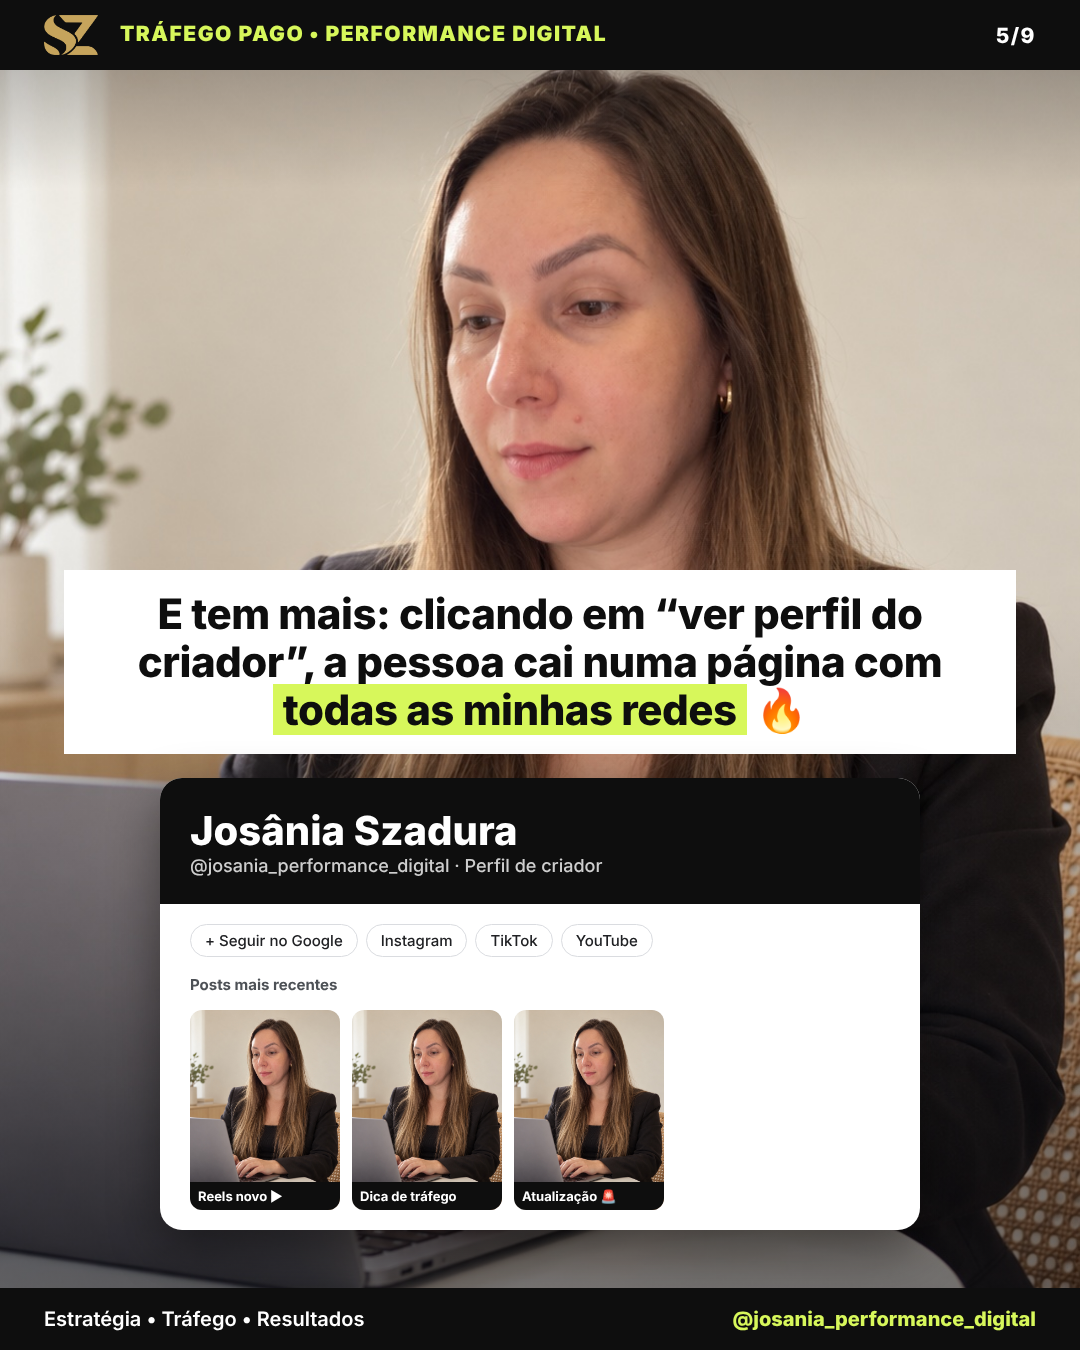
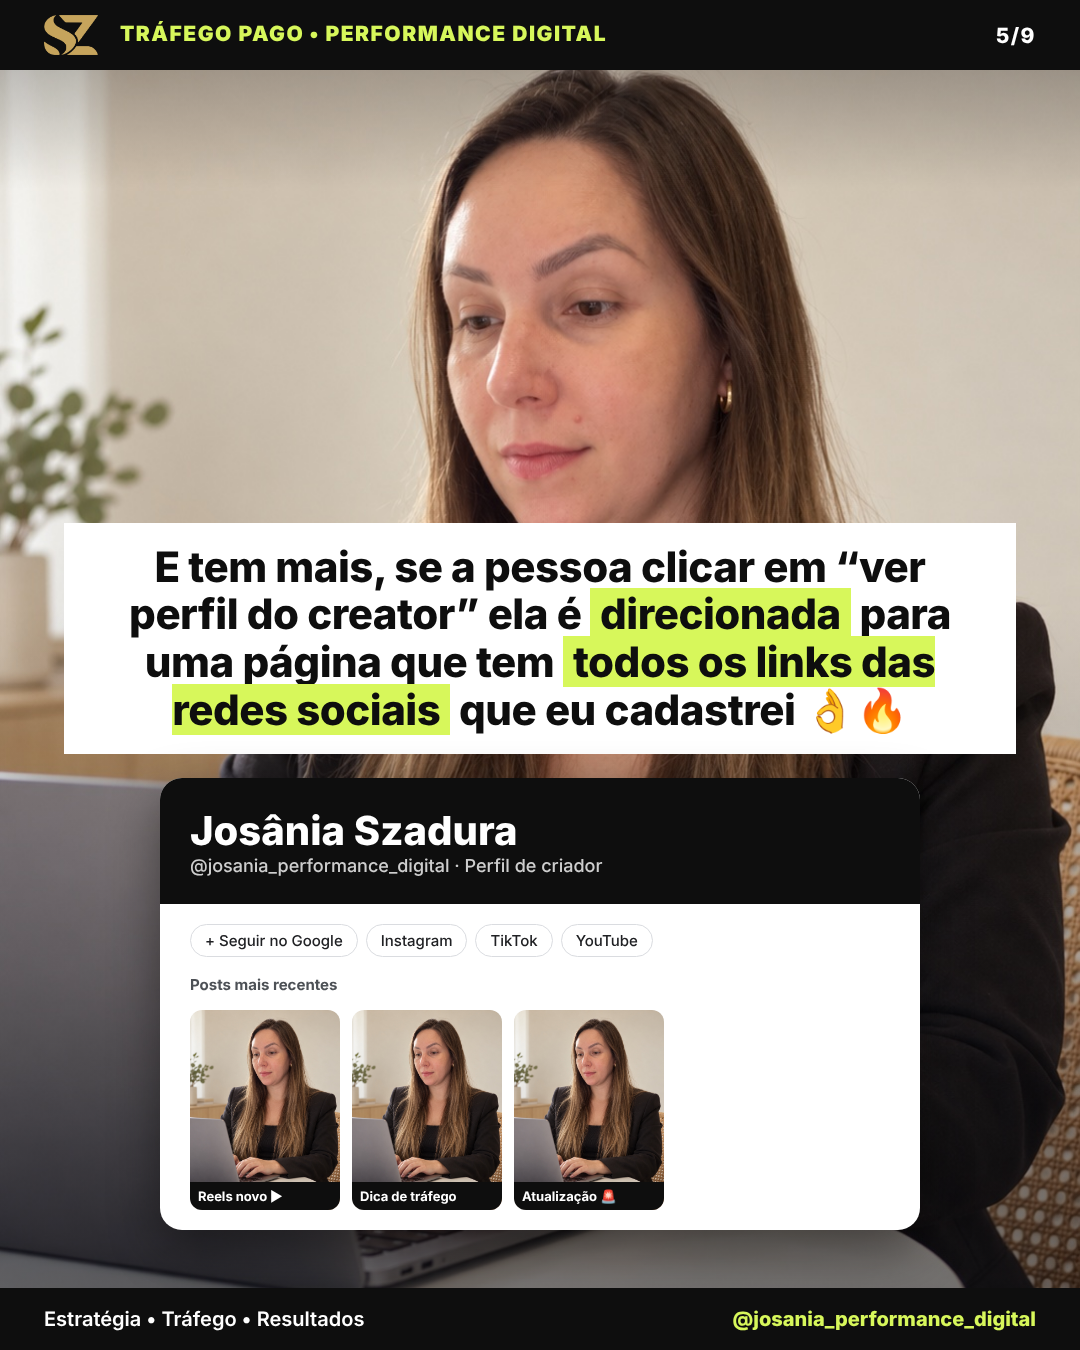
Ajusta os textos do carrossel ao tom do post de referência
Claude-Session: https://claude.ai/code/session_01Cdq3fSAdowyFYcw5UgbxcJ

Changed region(s): [[0.0611, 0.3733, 0.9472, 0.56]]

diff --git a/conteudos/carrossel-perfil-google/gerar.py b/conteudos/carrossel-perfil-google/gerar.py
@@ -111,15 +111,15 @@ def slides(m):
 <div class="desc" style="font-size:19px;margin-top:6px">Uma nova maneira de criadores se destacarem na Pesquisa.</div>
 <div class="src" style="margin-top:10px;font-size:18px">🔗 creators.google</div></div></div>"""
     return [
-        f'<img class="selo canto" src="{m["sz_uri"]}"><div class="box ouro sm">🚨 ALERTA DE ATUALIZAÇÃO</div><div class="box escuro big">O Google agora tem <span class="hl">perfil de criador</span></div><div class="box lima sm">e quase ninguém ativou ainda 👀</div>',
-        '<div class="box branco">Quando alguém pesquisa o seu nome no Google, <span class="hla">o que aparece?</span></div><div class="gap"></div><div class="box escuro sm">Link solto e desatualizado = menos autoridade (e menos cliente)</div>',
-        f'<div class="box escuro sm">ANTES: era isso que aparecia quando pesquisavam meu nome 👇</div>{antes}',
-        f'<div class="box escuro sm">DEPOIS de criar meu perfil no <span class="hl">Google para Criadores</span> 👇</div><div class="box lima" style="font-size:34px">✅ Muito mais completo, com posts que levam direto pro meu Instagram</div>{depois}',
-        f'<div class="box branco sm">E tem mais: clicando em “ver perfil do criador”, a pessoa cai numa página com <span class="hla">todas as minhas redes</span> 🔥</div>{perfil_pg}',
-        f'<div class="box escuro sm">Criar o seu é muito simples:</div><div class="box branco sm">1) Acesse o site:</div><div class="box lima" style="font-size:42px">creators.google/pt-BR/profile</div>{link}',
-        '<div class="box escuro sm">2) Conecte seu Instagram para validar a inscrição</div><div class="box ouro xs">(por enquanto, só para perfis com +10 mil seguidores)</div><div class="gap"></div><div class="box branco sm">3) Conecte suas outras redes sociais</div><div class="gap"></div><div class="box lima sm">4) Conclua o cadastro e acesse seu perfil do Google</div>',
-        '<div class="box escuro sm">5) Personalize e deixe todas as suas informações atualizadas</div><div class="gap"></div><div class="box branco sm">Depois de 24h, pesquise seu nome no Google e veja a mudança!</div><div class="gap"></div><div class="box ouro" style="font-size:34px">Tem negócio local? O seu “perfil” é o Google Meu Negócio 📍</div>',
-        f'<img class="selo" src="{m["sz_uri"]}"><div class="box branco">Quer saber das atualizações antes de todo mundo? É só seguir</div><div class="box lima" style="font-size:52px">{perfil}</div>',
+        f'<img class="selo canto" src="{m["sz_uri"]}"><div class="box ouro sm">🚨 Alerta de ATUALIZAÇÃO</div><div class="box escuro big">que vai fazer você <span class="hl">aparecer muito mais</span> no Google!</div>',
+        '<div class="box branco">Agora você pode criar o seu <span class="hla">perfil de creator</span> no Google!</div><div class="gap"></div><div class="box escuro sm">E ele muda totalmente o que aparece quando alguém pesquisa o seu nome 👀</div>',
+        f'<div class="box escuro sm">Esse era o resultado que aparecia ANTES quando pesquisavam o meu nome 👇</div>{antes}',
+        f'<div class="box escuro sm">E agora esse é o resultado que aparece DEPOIS que eu criei o meu perfil no <span class="hl">Google creator!</span> 👇</div><div class="box lima" style="font-size:34px">✅ Muito mais completo, e com links que levam direto para os meus conteúdos aqui do Instagram!</div>{depois}',
+        f'<div class="box branco sm">E tem mais, se a pessoa clicar em “ver perfil do creator” ela é <span class="hla">direcionada</span> para uma página que tem <span class="hla">todos os links das redes sociais</span> que eu cadastrei 👌🔥</div>{perfil_pg}',
+        f'<div class="box escuro sm">E para criar o seu perfil é muito simples.</div><div class="box branco sm">1) Basta você acessar o site:</div><div class="box lima" style="font-size:40px">https://creators.google/pt-BR/profile</div>{link}',
+        '<div class="box escuro sm">2) Conecte o seu perfil do Instagram para validar a sua inscrição</div><div class="box ouro xs">(Válido apenas para quem tem mais de 10k de seguidores)</div><div class="gap"></div><div class="box branco sm">3) Conecte as duas outras redes sociais</div><div class="gap"></div><div class="box lima sm">4) Conclua o seu cadastro e acesse o seu perfil do Google</div>',
+        '<div class="box escuro sm">5) Agora é só personalizar para deixar todas as suas informações atualizadas</div><div class="gap"></div><div class="box branco sm">E depois de 24 horas você pesquisa o seu nome no Google para ver ele atualizado!</div>',
+        f'<img class="selo" src="{m["sz_uri"]}"><div class="box branco">E se quiser receber mais conteúdos como esse é só seguir</div><div class="box lima" style="font-size:52px">{perfil}</div>',
     ]
 
 
